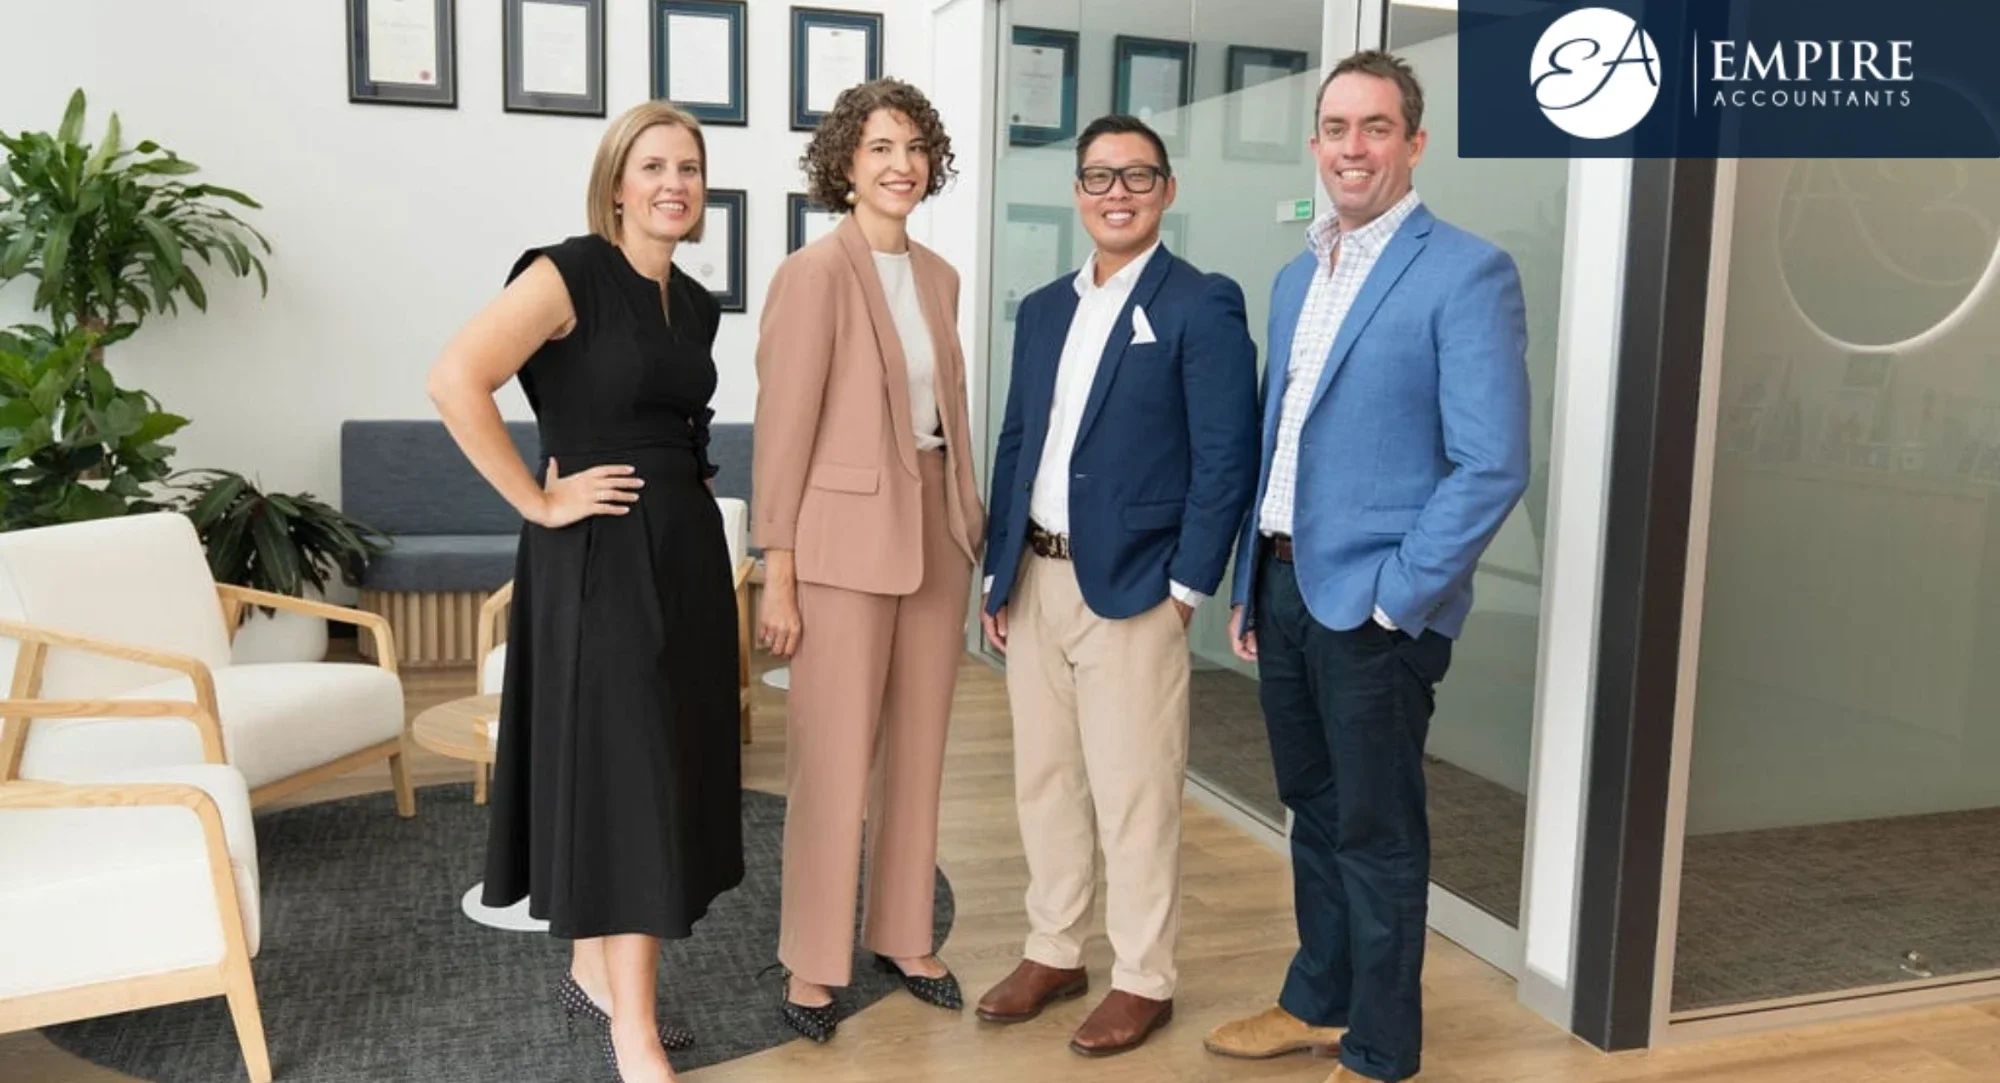
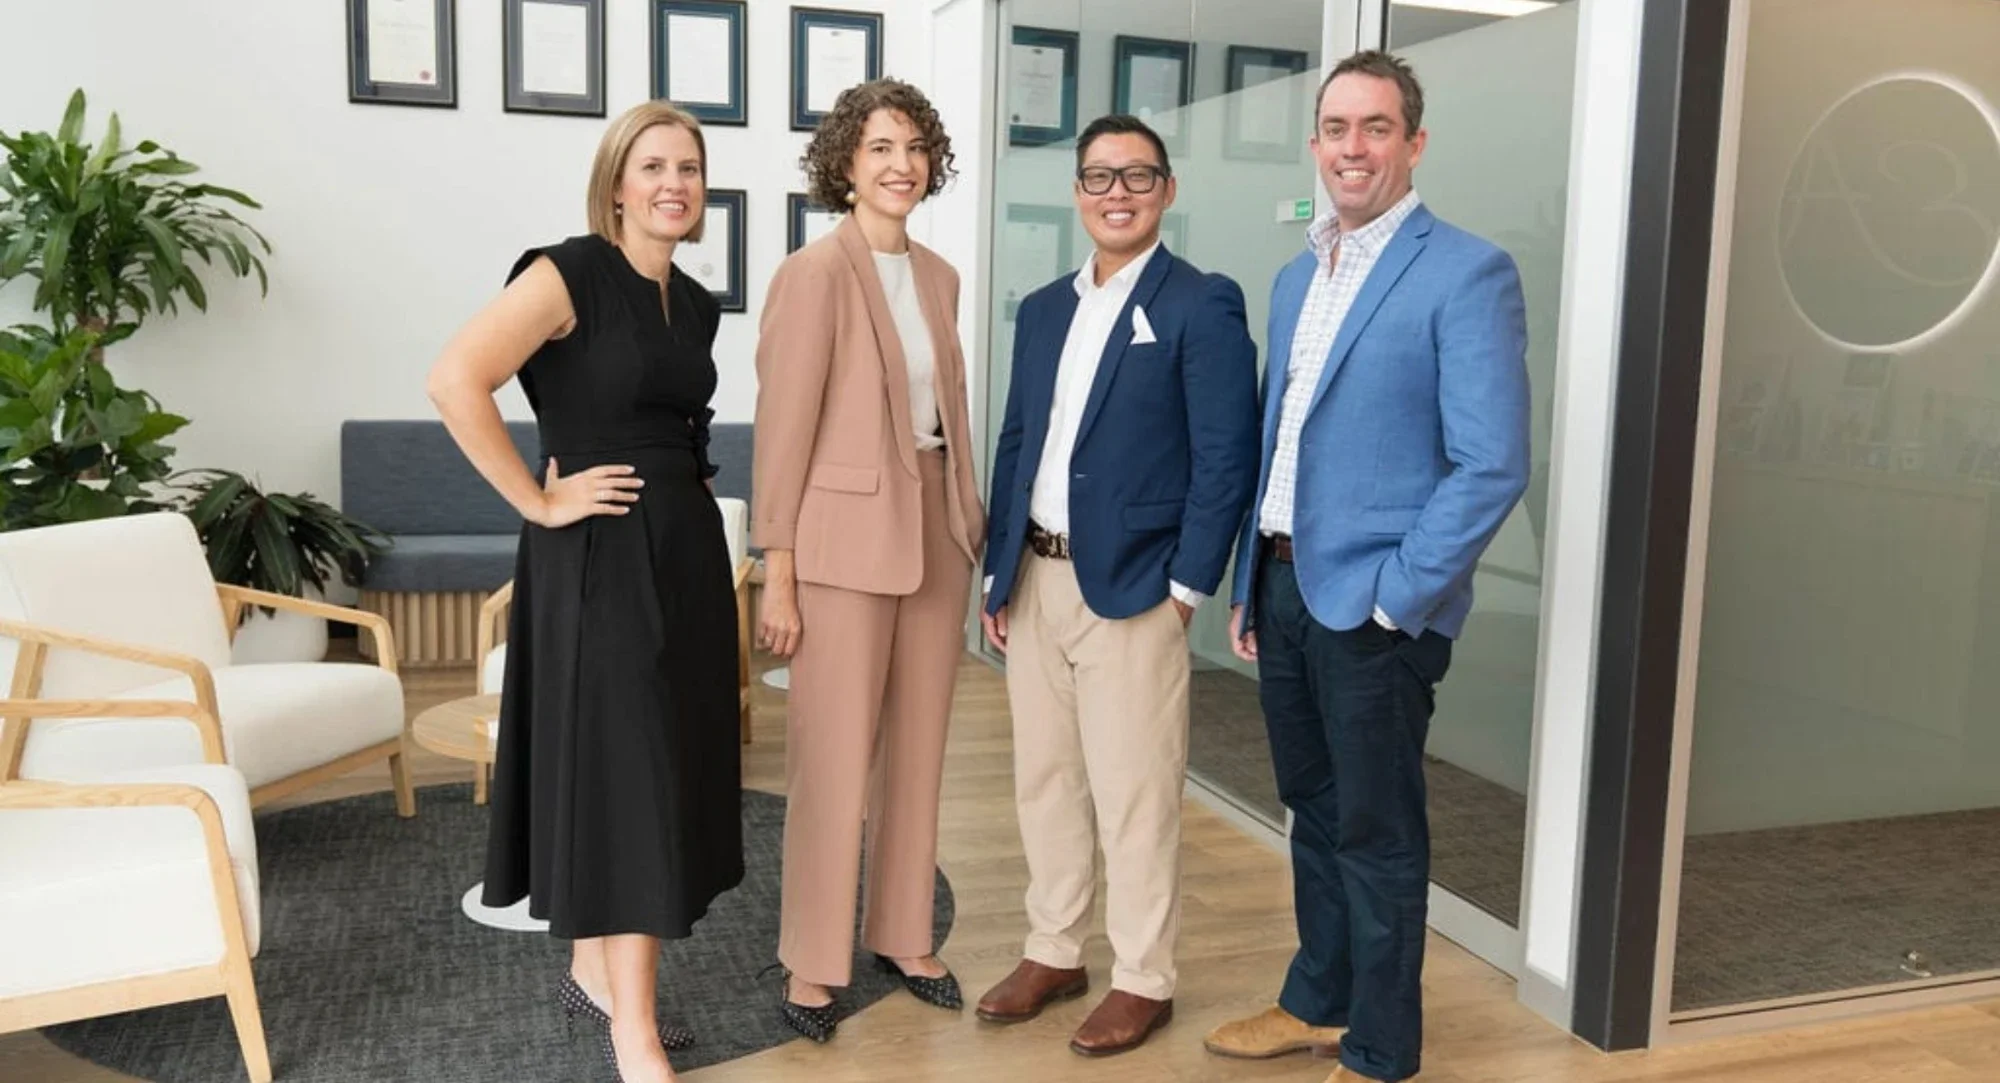
New partner photos for Jensen CPA and Empire covers (web dev cards and case study hero images); remove hover zoom on cover cards
Claude-Session: https://claude.ai/code/session_01UJYwB246tV4Haq5ix9WYj4

Changed region(s): [[0.713, 0.0, 1.0, 0.1524]]

diff --git a/src/app/results/empire-accountants/page.tsx b/src/app/results/empire-accountants/page.tsx
@@ -147,8 +147,8 @@ export default function EmpireAccountantsCaseStudy() {
       <div className={styles.band}>
         {/* eslint-disable-next-line @next/next/no-img-element */}
         <img
-          src="/images/empire-accountants-website.webp"
-          alt="Empire Accountants website homepage, a Brisbane accounting and business advisory firm"
+          src="/images/empire-accountants-cover.webp"
+          alt="The Empire Accountants partners in their Brisbane office, an accounting firm Scale SEO works with"
         />
       </div>
 

diff --git a/src/app/results/jensen-cpa/page.tsx b/src/app/results/jensen-cpa/page.tsx
@@ -147,7 +147,8 @@ export default function JensenCpaCaseStudy() {
 
       <div className={styles.band}>
         {/* eslint-disable-next-line @next/next/no-img-element */}
-        <img src="/images/jensen-cpa-website.webp" alt="Jensen CPA website: Fractional CFO Services for Calgary Businesses" />
+        <img src="/images/jensen-cpa-cover.webp"
+          alt="The Jensen CPA team in Calgary, an accounting firm Scale SEO works with" />
       </div>
 
       <div className={styles.stats}>

diff --git a/src/app/services/svc.module.css b/src/app/services/svc.module.css
@@ -243,8 +243,7 @@
   color: var(--h-white) !important;
   text-decoration: none;
 }
-.cover img { position: absolute; inset: 0; width: 100%; height: 100%; object-fit: cover; transition: transform 0.8s ease; }
-.cover:hover img { transform: scale(1.03); }
+.cover img { position: absolute; inset: 0; width: 100%; height: 100%; object-fit: cover; }
 .cover::after {
   content: "";
   position: absolute;
